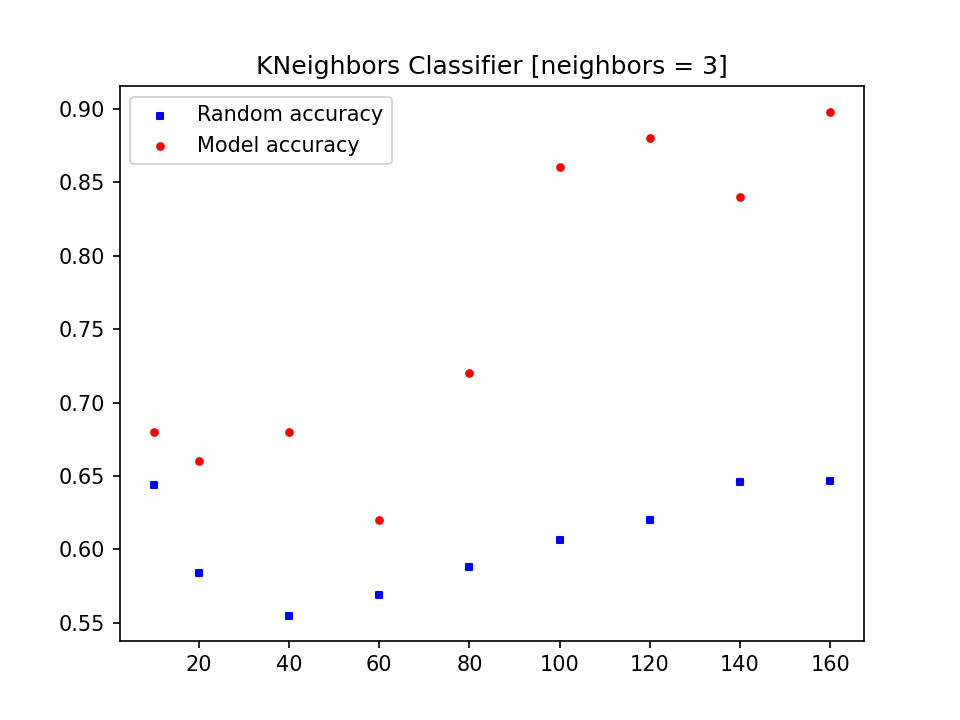
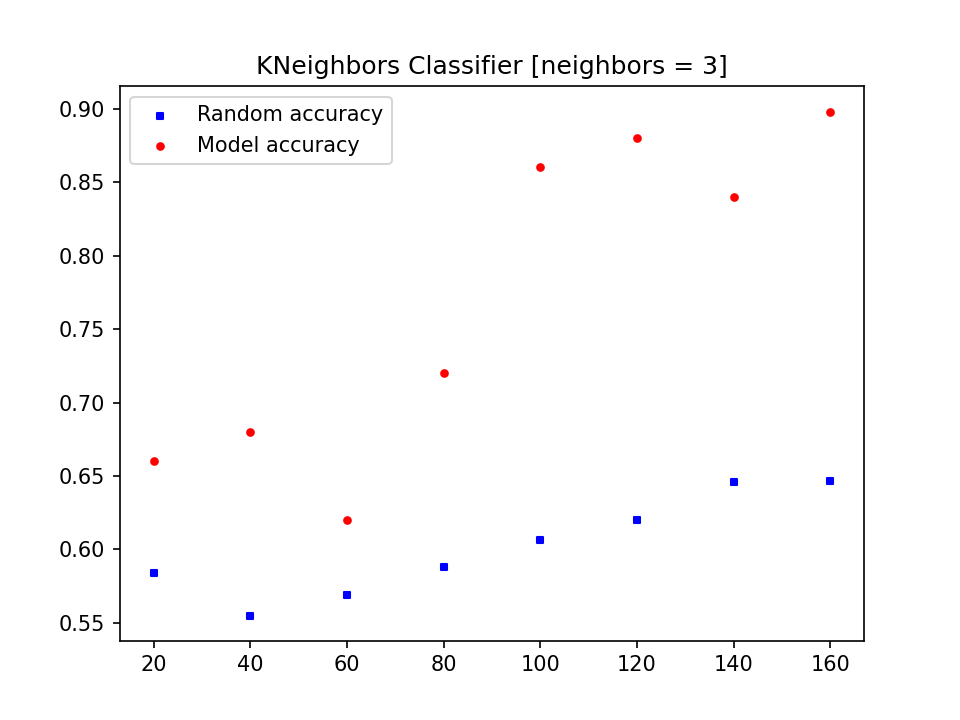
added a readme

diff --git a/graphing.py b/graphing.py
@@ -38,7 +38,7 @@ models_to_run = [
     (DecisionTreeClassifier(
         random_state=0, ccp_alpha=0.000), 'Decision Tree [alpha = 0.000]', False),
     (KNeighborsClassifier(
-        n_neighbors=7), 'KNeighbors Classifier [neighbors = 7]', True),
+        n_neighbors=11), 'KNeighbors Classifier [neighbors = 11]', True),
     (KNeighborsClassifier(
         n_neighbors=5), 'KNeighbors Classifier [neighbors = 5]', True),
     (KNeighborsClassifier(
@@ -96,7 +96,7 @@ for clf, name, to_normalize in models_to_run:
     accuracy_measurements = {}
     rand_accuracy = {}
 
-    idx = 10, 20, 40, 60, 80, 100, 120, 140, 160
+    idx = 20, 40, 60, 80, 100, 120, 140, 160
 
     for i in idx:
         train_X = observed.iloc[:i].to_numpy()
